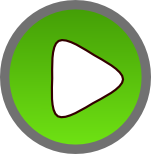
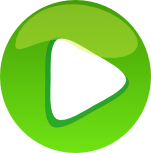
Creado modo niños, con boton seleccionable en pantalla principal. Se mantienen dos records distintos para cada modo En el modo niños no hay muelles ni regalo en la segunda fila

diff --git a/core/src/es/eduardoanton/proyectos/juegos/MainScreen.java b/core/src/es/eduardoanton/proyectos/juegos/MainScreen.java
@@ -31,7 +31,7 @@ public class MainScreen implements Screen{
 	private Stage stage;
 	private Actor fondoincio,nube1,nube2,circo,letrero,letreroe;
 	private Actor payaso1,payaso2,globos1,globos2,gato;
-	public  ActorGenerico botoninicio,salir;
+	public  ActorGenerico botoninicio,salir,botonninos;
 	public BitmapFont marcador;
 	private Texture corona;
 	
@@ -49,6 +49,14 @@ public class MainScreen implements Screen{
 		marcador =game.asset.get("fuente.fnt", BitmapFont.class);
 		marcador.setColor(Color.GRAY);
 	    stage = new Stage(new StretchViewport(SeeSawCircus.screenwidth, SeeSawCircus.screenheight));
+	    if (game.gamew.modechildren){
+	    	botonninos = new ActorGenerico(440f - 400f,310f,"botonninoson.png");
+	    }else{
+	    	botonninos = new ActorGenerico(440f - 400f,310f,"botonninosoff.png");
+	    }
+	    botonninos.addAction(sequence(
+				visible(false),delay(9),visible(true)
+				));
 	    fondoincio = new ActorGenerico(0f,0f,"fondomain.png");
 	    nube1 = new ActorGenerico(0f,400f,"nube.png");
 	    nube2 = new ActorGenerico(1024f,300f,"nube.png");
@@ -133,6 +141,7 @@ public class MainScreen implements Screen{
 	    stage.addActor(globos1);
 	    stage.addActor(globos2);
 	    stage.addActor(gato);
+	    stage.addActor(botonninos);
 	    stage.addActor(botoninicio);
 	    stage.addActor(salir);
 	
@@ -146,7 +155,11 @@ public class MainScreen implements Screen{
 		if (gato.isVisible()){
 			batch.begin();
 			marcador.setColor(Color.GRAY);
-			marcador.draw(batch, "" + SeeSawCircus.prefs.getLong("record",0), 532 - (marcador.getBounds("" + SeeSawCircus.prefs.getLong("record",0)).width/2),45);
+			if ( game.gamew.modechildren){
+				marcador.draw(batch, "" + SeeSawCircus.prefs.getLong("recordninos",0), 532 - (marcador.getBounds("" + SeeSawCircus.prefs.getLong("recordninos",0)).width/2),45);
+			}else{
+				marcador.draw(batch, "" + SeeSawCircus.prefs.getLong("record",0), 532 - (marcador.getBounds("" + SeeSawCircus.prefs.getLong("record",0)).width/2),45);
+			}
 			batch.draw(corona, 532 - (marcador.getBounds("" + SeeSawCircus.prefs.getLong("record",0)).width/2) - 50,5);
 			batch.end();
 		}

diff --git a/core/src/es/eduardoanton/proyectos/juegos/GameOverScreen.java b/core/src/es/eduardoanton/proyectos/juegos/GameOverScreen.java
@@ -61,6 +61,9 @@ public class GameOverScreen implements Screen{
 	}
 	
 	public void reset(){
+		GameOverScreen.botonreload = SeeSawCircus.asset.get("botonreload.png");
+		GameOverScreen.botonhome = SeeSawCircus.asset.get("botonhome.png");
+		GameOverScreen.salida = SeeSawCircus.asset.get("salir.png");
 		trampolinp = new Vector2(SeeSawCircus.screenwidth,530);
 		caramelop = new Vector2(SeeSawCircus.screenwidth + 300,470);
 		globop = new Vector2(SeeSawCircus.screenwidth + 600,410);
@@ -146,7 +149,11 @@ public class GameOverScreen implements Screen{
 	public void show() {
 		reset();
 		if (SeeSawCircus.gamew.isrecord){
-			SeeSawCircus.prefs.putLong("record", SeeSawCircus.gamew.record);
+			if ( SeeSawCircus.gamew.modechildren){
+				SeeSawCircus.prefs.putLong("recordninos", SeeSawCircus.gamew.record);
+			}else{
+				SeeSawCircus.prefs.putLong("record", SeeSawCircus.gamew.record);
+			}
 			SeeSawCircus.prefs.flush();
 		}
 		Gdx.input.setInputProcessor(iproc);

diff --git a/core/src/es/eduardoanton/proyectos/juegos/InputProcesadorMain.java b/core/src/es/eduardoanton/proyectos/juegos/InputProcesadorMain.java
@@ -65,10 +65,19 @@ public class InputProcesadorMain implements InputProcessor{
 			Gdx.app.exit();
 			return true;
 		}
-		if (touchpos.x > 482 && touchpos.x < 570 && touchpos.y > 340 && touchpos.y < 450 ){
-			game.gamew.modechildren = true;
+		
+		if (touchpos.x > 16 && touchpos.x < 230 && touchpos.y > 280 && touchpos.y < 390 ){
+			game.gamew.modechildren = !game.gamew.modechildren;
 			MainScreen.clic.play();
-			this.game.setScreen(SeeSawCircus.ingamescreen);
+			if ( game.gamew.modechildren){
+				mscreen.botonninos.setTexture("botonninoson.png");
+				SeeSawCircus.prefs.putBoolean("modoninos",true);
+				SeeSawCircus.prefs.flush();
+			}else{
+				mscreen.botonninos.setTexture("botonninosoff.png");
+				SeeSawCircus.prefs.putBoolean("modoninos",false);
+				SeeSawCircus.prefs.flush();
+			}
 			return true;
 		}
 		playRandomSound();

diff --git a/core/src/es/eduardoanton/proyectos/juegos/GameWorld.java b/core/src/es/eduardoanton/proyectos/juegos/GameWorld.java
@@ -86,9 +86,11 @@ public class GameWorld {
 		bounS = SeeSawCircus.asset.get("trampoline_bounce_lite_01.ogg", Sound.class);
 		ispremio = false;
 		timeready = 0f;
+		modechildren =  SeeSawCircus.prefs.getBoolean("modoninos", false);
 	}
 	
 	public void reset(){
+		modechildren =  SeeSawCircus.prefs.getBoolean("modoninos", false);
 		muelle = new Vector2(-100,-100);
 		muellefalling = new Vector2(-100,-100);
 		muellec = 3;
@@ -124,7 +126,11 @@ public class GameWorld {
 		playedrecord = false;
 		ispremio = false;
 		trapecio = new Vector2(446,580);
-		record = SeeSawCircus.prefs.getLong("record", 0);
+		if ( modechildren ){
+			record = SeeSawCircus.prefs.getLong("recordninos", 0);
+		}else{
+			record = SeeSawCircus.prefs.getLong("record", 0);
+		}
 		resetready(payaso2);
 	}
 	

diff --git a/core/src/es/eduardoanton/proyectos/juegos/SeeSawCircus.java b/core/src/es/eduardoanton/proyectos/juegos/SeeSawCircus.java
@@ -120,6 +120,8 @@ public class SeeSawCircus extends Game {
 		asset.load("botonreload.png", Texture.class);
 		asset.load("botonhomep.png", Texture.class);
 		asset.load("botonreloadp.png", Texture.class);
+		asset.load("botonninoson.png", Texture.class);
+		asset.load("botonninosoff.png", Texture.class);
 		asset.load("paraguasp.png", Texture.class);
 		asset.load("payaso_sombra.png", Texture.class);
 		asset.load("trapecio.png", Texture.class);

diff --git a/core/src/es/eduardoanton/proyectos/juegos/IngameScreen.java b/core/src/es/eduardoanton/proyectos/juegos/IngameScreen.java
@@ -218,8 +218,10 @@ public class IngameScreen implements Screen{
 		for ( int i=1;i<=gamew.paraguasc;i++){
 			batch.draw(paraguaspp, 465 + 30*i,5 + ref);
 		}
-		for ( int i=1;i<=gamew.muellec;i++){
+		if (! gamew.modechildren){
+			for ( int i=1;i<=gamew.muellec;i++){
 			batch.draw(muellep, 560 + 30*i,5 + ref);
+			}
 		}
 		if (gamew.gamestate == GameWorld.GameState.GAMEOVER){
 			marcador.setColor(Color.YELLOW);

diff --git a/core/src/es/eduardoanton/proyectos/juegos/FilaObjetivos.java b/core/src/es/eduardoanton/proyectos/juegos/FilaObjetivos.java
@@ -133,7 +133,9 @@ public class FilaObjetivos {
 			for (int i=0;i<10;i++){
 				this.elementos[i]=MathUtils.random(0,10);
 			}
-			this.elementos[MathUtils.random(0,9)] = 21;
+			if (!game.modechildren){
+				this.elementos[MathUtils.random(0,9)] = 21;
+			}
 		}else if ( ID == 2){
 			for (int i=0;i<10;i++){
 				this.elementos[i]=MathUtils.random(0,18);
